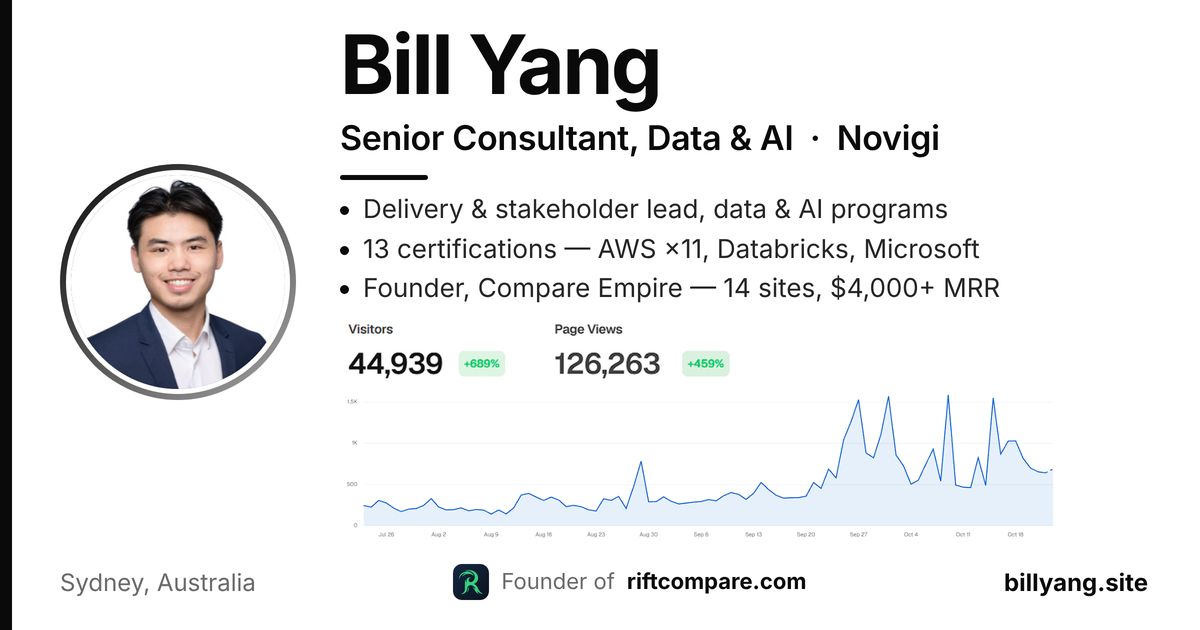
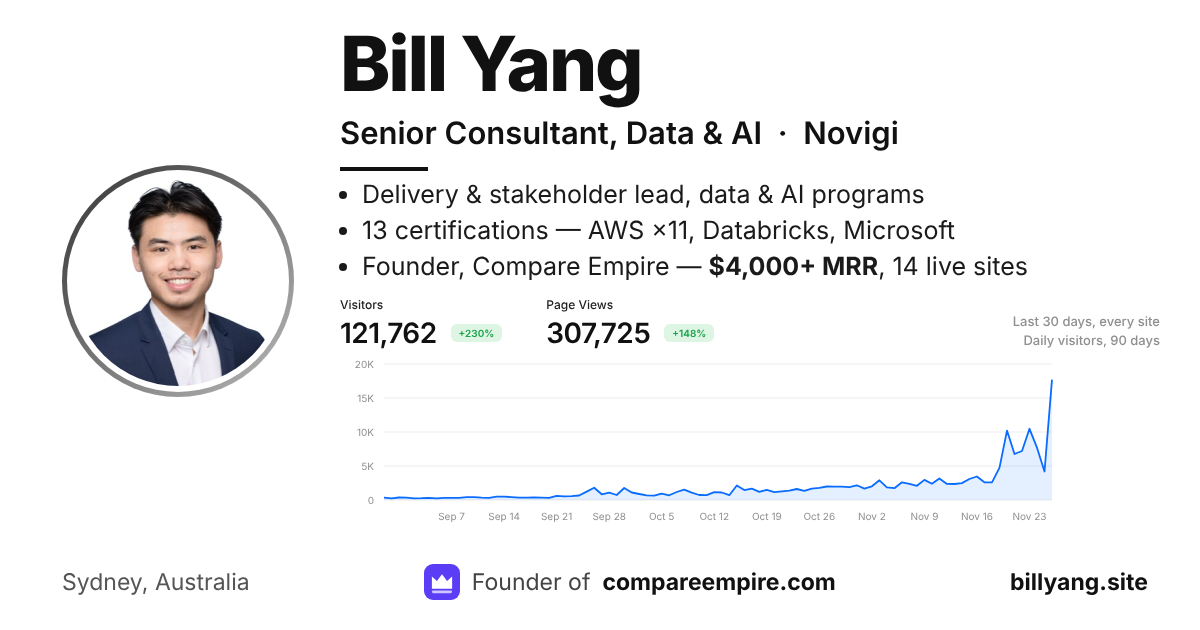
Update to $4k MRR, Compare Empire analytics figure, compact homepage section (#3)
- New share image (og-image.png): $4,000+ MRR, Compare Empire, 30-day traffic across every site
- New figure (compare-empire-analytics.png) from Empire HQ analytics: 121,762 visitors (+230%), 307,725 page views (+148%), last 30 days
- Homepage Compare Empire section trimmed to stats, the figure and one line of site names; full site list moves to /compare-empire/
- AI experience copy: $1,500+ MRR -> $4,000+, RiftCompare -> Compare Empire

Claude-Session: https://claude.ai/code/session_01FFgMDacnxF1utYN1Qr7gAP

diff --git a/src/components/CompareEmpire.tsx b/src/components/CompareEmpire.tsx
@@ -1,10 +1,12 @@
 import Image from "next/image";
-import { ArrowUpRight, Check, Crown } from "lucide-react";
+import Link from "next/link";
+import { ArrowRight, ArrowUpRight, Check, Crown } from "lucide-react";
 import { Reveal } from "./ui/Reveal";
 import { SectionHeading } from "./ui/SectionHeading";
 import {
   SITE_COUNT,
   flagship,
+  suiteProof,
   siteChips,
   suiteHow,
   suiteLive,
@@ -109,13 +111,14 @@ function ClusterBlock({
   );
 }
 
-export function CompareEmpire() {
+/** The full suite: every site card. Lives on /compare-empire/. */
+export function CompareEmpireFull() {
   return (
     <section id="compare-empire" className="relative overflow-hidden">
       <div className="aurora opacity-50" />
       <div className="relative mx-auto max-w-6xl px-5 py-24 sm:px-8 sm:py-32">
         <SectionHeading
-          index="02"
+          index="01"
           kicker="Founder · Compare Empire"
           title={`Compare Empire: a suite of ${SITE_COUNT} websites`}
           description="Price comparison sites that people actually use. Each one reads hundreds of independent stores every day, matches every listing to the right product and shows the cheapest place to buy, in the shopper's own currency. I design, build and run all fourteen. The store and product counts below are read from each site's own data every day."
@@ -153,11 +156,29 @@ export function CompareEmpire() {
           </dl>
         </Reveal>
 
+        {/* Traffic across every site */}
+        <Reveal delay={0.05} className="mt-6">
+          <figure>
+            <div className="overflow-hidden rounded-xl border border-[var(--border)] bg-white p-3">
+              <Image
+                src={suiteProof.src}
+                alt={suiteProof.alt}
+                width={suiteProof.width}
+                height={suiteProof.height}
+                className="h-auto w-full"
+              />
+            </div>
+            <figcaption className="mt-2 font-mono text-[0.65rem] text-faint">
+              {suiteProof.caption}
+            </figcaption>
+          </figure>
+        </Reveal>
+
         {/* Flagship */}
         <Reveal delay={0.05} className="mt-6">
           <article className="relative overflow-hidden rounded-2xl border border-accent/30 bg-surface p-6 sm:p-8">
             <div className="pointer-events-none absolute -right-20 -top-20 h-56 w-56 rounded-full bg-accent/10 blur-3xl" />
-            <div className="relative grid gap-8 lg:grid-cols-[1fr_1.15fr] lg:items-center">
+            <div className="relative">
               <div>
                 <span className="inline-flex items-center gap-1.5 rounded-full border border-accent/40 bg-accent/10 px-3 py-1 font-mono text-[0.65rem] uppercase tracking-wider text-accent">
                   <Crown className="h-3 w-3" />
@@ -205,20 +226,6 @@ export function CompareEmpire() {
                   <ArrowUpRight className="h-4 w-4 transition-transform group-hover:-translate-y-0.5 group-hover:translate-x-0.5" />
                 </a>
               </div>
-              <figure>
-                <div className="overflow-hidden rounded-xl border border-[var(--border)] bg-white p-3">
-                  <Image
-                    src={flagship.proof.src}
-                    alt={flagship.proof.alt}
-                    width={flagship.proof.width}
-                    height={flagship.proof.height}
-                    className="h-auto w-full"
-                  />
-                </div>
-                <figcaption className="mt-2 font-mono text-[0.65rem] text-faint">
-                  {flagship.proof.caption}
-                </figcaption>
-              </figure>
             </div>
           </article>
         </Reveal>
@@ -249,6 +256,77 @@ export function CompareEmpire() {
               Store and product counts are read from each site&apos;s own published price data once a day
               (last read {fetchedOn}); visitor figures are from Vercel Analytics, {visitorsAsOf}.
             </p>
+          </div>
+        </Reveal>
+      </div>
+    </section>
+  );
+}
+
+const homeStats = [
+  { value: String(SITE_COUNT), label: "Live sites" },
+  { value: "$4k+", label: "Monthly recurring revenue" },
+  { value: "121.8k", label: "Visitors in 30 days, up 230%" },
+  { value: "7", label: "Regions" },
+];
+
+/** The homepage summary: one compact block that links to the full suite. */
+export function CompareEmpire() {
+  const names = [flagship.name, ...suiteSites.map((s) => s.name)];
+  return (
+    <section id="compare-empire" className="relative overflow-hidden">
+      <div className="aurora opacity-50" />
+      <div className="relative mx-auto max-w-6xl px-5 py-24 sm:px-8 sm:py-32">
+        <SectionHeading
+          index="02"
+          kicker="Founder · Compare Empire"
+          title="Compare Empire"
+          description={`A suite of ${SITE_COUNT} price-comparison websites I design, build and run on my own, for trading cards, hobby gear, tech and K-beauty, led by RiftCompare. Each one reads hundreds of stores a day and shows shoppers the cheapest place to buy.`}
+        />
+
+        <Reveal>
+          <dl className="grid grid-cols-2 gap-px overflow-hidden rounded-2xl border border-[var(--border)] bg-[var(--border)] lg:grid-cols-4">
+            {homeStats.map((s) => (
+              <div key={s.label} className="flex flex-col bg-surface p-5">
+                <dt className="order-2 mt-1.5 text-xs leading-snug text-muted">{s.label}</dt>
+                <dd className="order-1 font-mono text-3xl font-semibold tracking-tight text-accent">
+                  {s.value}
+                </dd>
+              </div>
+            ))}
+          </dl>
+        </Reveal>
+
+        <Reveal delay={0.05} className="mt-6">
+          <figure>
+            <div className="overflow-hidden rounded-xl border border-[var(--border)] bg-white p-3">
+              <Image
+                src={suiteProof.src}
+                alt={suiteProof.alt}
+                width={suiteProof.width}
+                height={suiteProof.height}
+                className="h-auto w-full"
+              />
+            </div>
+            <figcaption className="mt-2 font-mono text-[0.65rem] text-faint">
+              {suiteProof.caption}
+            </figcaption>
+          </figure>
+        </Reveal>
+
+        <Reveal delay={0.1} className="mt-8">
+          <div className="flex flex-col gap-5 rounded-2xl border border-[var(--border)] bg-background-soft p-6 sm:flex-row sm:items-center sm:justify-between sm:p-8">
+            <p className="text-sm leading-relaxed text-muted">
+              <span className="font-medium text-foreground">The sites: </span>
+              {names.join(" · ")}
+            </p>
+            <Link
+              href="/compare-empire/"
+              className="group inline-flex shrink-0 items-center gap-2 rounded-lg bg-accent px-4 py-2.5 text-sm font-medium text-on-accent shadow-sm shadow-accent/20 transition-transform hover:-translate-y-0.5"
+            >
+              See every site
+              <ArrowRight className="h-4 w-4 transition-transform group-hover:translate-x-0.5" />
+            </Link>
           </div>
         </Reveal>
       </div>

diff --git a/src/data/aiExperience.ts b/src/data/aiExperience.ts
@@ -88,11 +88,11 @@ export const personalAiExperience: PersonalAiPractice[] = [
     title: "Agentic Development with Claude Code",
     period: "Ongoing",
     description:
-      "Bill uses Claude Code as a daily agentic pair-programmer across every personal project he ships — not as an autocomplete tool, but as an agent that plans, edits, runs builds/tests, and drives git/CI end-to-end. This site is itself a live example: it was designed, built, content-audited, and deployed through extended agentic sessions with Claude Code — multi-step planning, tool-orchestrated edits across a whole codebase, automated verification (lint, build, Playwright-driven visual/responsiveness audits), and GitHub Actions deploys, all driven conversationally. The same practice is behind RiftCompare (riftcompare.com), a live Riftbound TCG price-comparison platform with 25,000+ monthly visits growing 50%+ month-over-month — the flagship of Compare Empire, a suite of 14 price-comparison sites earning $4,000+ MRR, mainly from affiliate revenue — Claude Code has been a hands-on development partner across its scraping pipeline, UI, and deployment, with Bill directing the architecture and reviewing every change.",
+      "Bill uses Claude Code as a daily agentic pair-programmer across every personal project he ships — not as an autocomplete tool, but as an agent that plans, edits, runs builds/tests, and drives git/CI end-to-end. This site is itself a live example: it was designed, built, content-audited, and deployed through extended agentic sessions with Claude Code — multi-step planning, tool-orchestrated edits across a whole codebase, automated verification (lint, build, Playwright-driven visual/responsiveness audits), and GitHub Actions deploys, all driven conversationally. The same practice is behind Compare Empire (compareempire.com), a suite of 14 live price-comparison sites led by RiftCompare (riftcompare.com), with 120,000+ monthly visitors (up 230% on the month before) and $4,000+ MRR, mainly from affiliate revenue — Claude Code has been a hands-on development partner across its scraping pipelines, UI, and deployment, with Bill directing the architecture and reviewing every change.",
     highlights: [
       "Comfortable directing multi-step agentic workflows: planning, execution, and verification loops rather than single-shot prompts",
       "Hands-on with tool-use/orchestration patterns — file edits, shell commands, browser automation, CI/CD — chained together to ship real, deployed product",
-      "RiftCompare (riftcompare.com) — a real, live, monetized product (25,000+ monthly visits, 50%+ MoM growth), flagship of a 14-site suite earning $4,000+ MRR mainly from affiliates, not a demo — built and iterated on with Claude Code as a development partner",
+      "Compare Empire (compareempire.com) — a real, live, monetized suite of 14 sites led by RiftCompare (120,000+ monthly visitors, up 230% month-over-month, $4,000+ MRR mainly from affiliates), not a demo — built and iterated on with Claude Code as a development partner",
     ],
     stack: ["Claude Code", "Agentic workflows", "CI/CD", "Playwright"],
   },

diff --git a/src/data/suite.ts b/src/data/suite.ts
@@ -18,7 +18,7 @@
 
 import live from "./suite-live.json";
 
-export const visitorsAsOf = "15–29 Oct 2026";
+export const visitorsAsOf = "28 Oct–26 Nov 2026";
 export const mrrAsOf = "Nov 2026";
 
 export type Cluster = "Trading cards" | "Hobby" | "Tech" | "Beauty";
@@ -65,14 +65,6 @@ export const flagship = {
     "44,939 visitors in the last 90 days, up 689%, earning through retailer affiliate links",
     "Price history, alerts, collection tracker and a Pro tier on Stripe",
   ],
-  proof: {
-    src: "/riftcompare-analytics.png",
-    alt: "Vercel Analytics for riftcompare.com over the last 90 days: 44,939 visitors (+689%) and 126,263 page views (+459%), with daily traffic climbing from ~200 to 1,000+",
-    caption:
-      "Vercel Analytics · last 90 days (Jul–Oct 2026) · 44,939 visitors · 126,263 page views",
-    width: 1578,
-    height: 486,
-  },
 } as const;
 
 export const suiteSites: SuiteSite[] = [
@@ -242,6 +234,15 @@ const largestName =
   largest ? (largest.key === "rift" ? flagship.name : (suiteSites.find((s) => s.key === largest.key)?.name ?? largest.key)) : null;
 
 /** The headline strip. Live figures carry a `live` flag so the UI can say so. */
+export const suiteProof = {
+  src: "/compare-empire-analytics.png",
+  alt: "Vercel Analytics across every Compare Empire site: 121,762 visitors (+230%) and 307,725 page views (+148%) in the last 30 days, with daily visitors climbing from about 300 in early September to over 10,000 in late November",
+  caption:
+    "Vercel Analytics, every Compare Empire site · last 30 days (28 Oct–26 Nov 2026) vs the 30 before · chart: daily visitors over 90 days",
+  width: 1600,
+  height: 520,
+} as const;
+
 export const suiteStats = [
   { value: String(SITE_COUNT), label: "Live price-comparison websites" },
   {
@@ -250,9 +251,9 @@ export const suiteStats = [
     note: `Across the suite, mostly affiliate commissions · ${mrrAsOf}`,
   },
   {
-    value: "22.8k",
-    label: "Visitors in 14 days",
-    note: `Vercel Analytics, ${visitorsAsOf}, 9 sites measured`,
+    value: "121.8k",
+    label: "Visitors in 30 days",
+    note: `Vercel Analytics, ${visitorsAsOf}, every site, up 230%`,
   },
   {
     value: products.total >= 1000 ? `${Math.floor(products.total / 1000)}k+` : fmt(products.total),

diff --git a/src/components/CompareEmpirePage.tsx b/src/components/CompareEmpirePage.tsx
@@ -1,0 +1,24 @@
+import Link from "next/link";
+import { ArrowLeft } from "lucide-react";
+import { CompareEmpireFull } from "./CompareEmpire";
+
+export function CompareEmpirePage() {
+  return (
+    <div className="flex min-h-screen flex-col bg-background text-foreground">
+      <header className="border-b border-[var(--border)]">
+        <div className="mx-auto flex max-w-6xl items-center px-5 py-5 sm:px-8">
+          <Link
+            href="/"
+            className="group flex items-center gap-2.5 text-sm font-medium text-muted transition-colors hover:text-foreground"
+          >
+            <ArrowLeft className="h-4 w-4 transition-transform group-hover:-translate-x-0.5" />
+            Back to site
+          </Link>
+        </div>
+      </header>
+      <main className="flex-1">
+        <CompareEmpireFull />
+      </main>
+    </div>
+  );
+}

diff --git a/src/data/profile.ts b/src/data/profile.ts
@@ -16,9 +16,10 @@ export const profile = {
   stats: [
     { label: "Currently", value: "Novigi" },
     { label: "Compare Empire sites live", value: "14" },
+    { label: "Monthly recurring revenue", value: "$4k+" },
     {
-      label: "Visitors across the suite in 14 days (15–29 Oct 2026)",
-      value: "22.8k",
+      label: "Visitors across the suite in 30 days (28 Oct–26 Nov 2026)",
+      value: "121.8k",
     },
     {
       label: "Monthly visits to the flagship",

diff --git a/src/app/compare-empire/page.tsx b/src/app/compare-empire/page.tsx
@@ -1,0 +1,12 @@
+import type { Metadata } from "next";
+import { CompareEmpirePage } from "@/components/CompareEmpirePage";
+
+export const metadata: Metadata = {
+  title: "Compare Empire",
+  description:
+    "Compare Empire: Bill Yang's suite of 14 price-comparison websites for trading cards, hobby gear, tech and K-beauty, led by RiftCompare.",
+};
+
+export default function Page() {
+  return <CompareEmpirePage />;
+}
